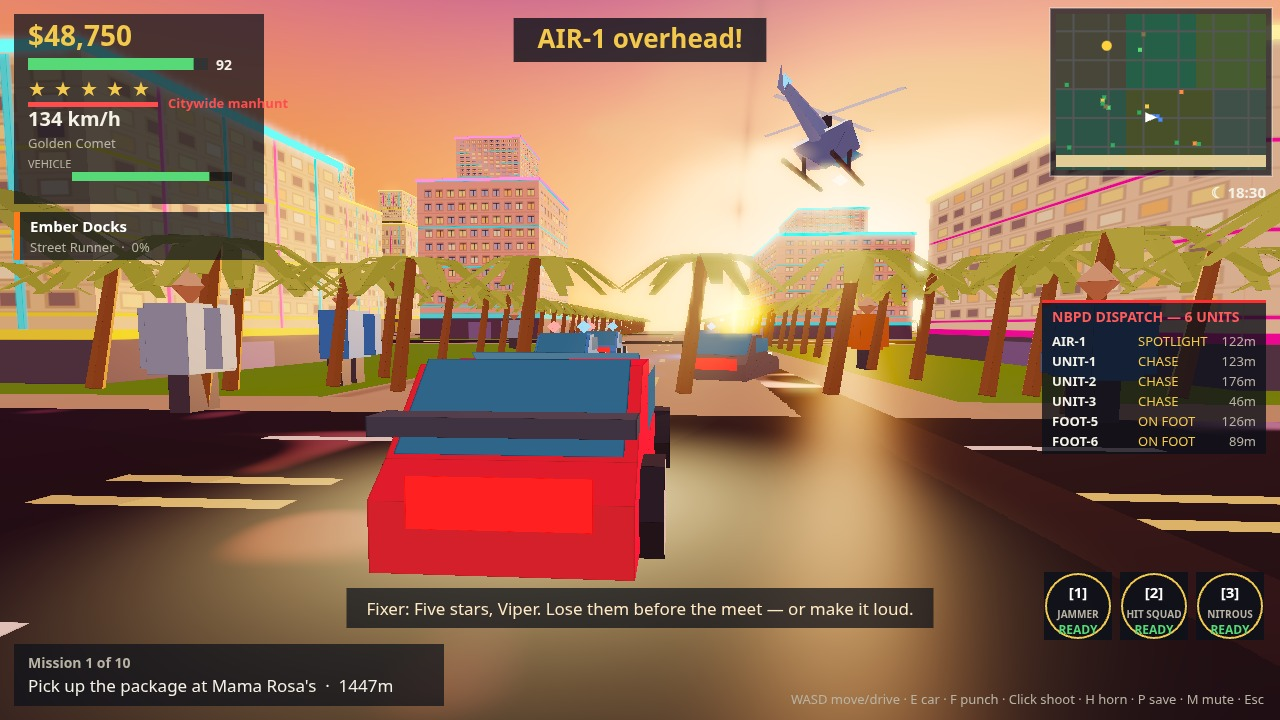
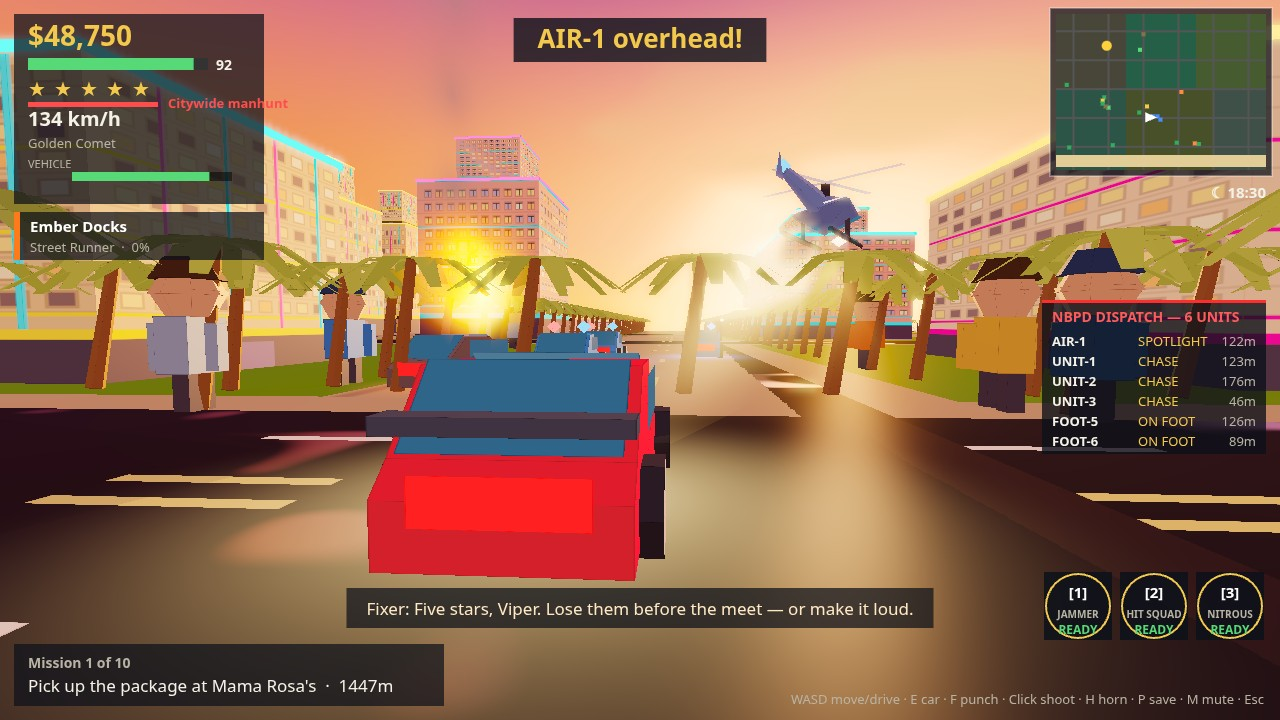
Neon Bay V7 ZEPETO FIX: chibi big-head characters, burning wreck + searchlight cone on cover, tamed sun — game/ 160095/163840 dossier (text 161581, 0 truncated), 4 shots 176/151/178/185 KiB, live Mission #1 OK, E 5/5, missions 10/10, draw 11/frame

diff --git a/game/src/renderer/meshes3d.js b/game/src/renderer/meshes3d.js
@@ -15,7 +15,7 @@ function b(cx,cy,cz,sx,sy,sz,yaw,col,uv,emi,rUv,rEm){const co=Math.cos(yaw),si=M
 function tb(cx,cy,cz,ax,ay,az,r0,r1,len,col,cc,uv,emi,sg){const al=Math.hypot(ax,ay,az)||1;ax/=al;ay/=al;az/=al;const t=Math.abs(ay)<.9?[0,1,0]:[1,0,0];let ux=ay*t[2]-az*t[1],uy=az*t[0]-ax*t[2],uz=ax*t[1]-ay*t[0];const ul=Math.hypot(ux,uy,uz)||1;ux/=ul;uy/=ul;uz/=ul;const vx=ay*uz-az*uy,vy=az*ux-ax*uz,vz=ax*uy-ay*ux,c0=[cx-ax*len/2,cy-ay*len/2,cz-az*len/2],c1=[cx+ax*len/2,cy+ay*len/2,cz+az*len/2],c2=cc||col;sg=sg||6;for(let i=0;i<sg;i++){const a0=i/sg*Math.PI*2,a1=(i+1)/sg*Math.PI*2,d0=[ux*Math.cos(a0)+vx*Math.sin(a0),uy*Math.cos(a0)+vy*Math.sin(a0),uz*Math.cos(a0)+vz*Math.sin(a0)],d1=[ux*Math.cos(a1)+vx*Math.sin(a1),uy*Math.cos(a1)+vy*Math.sin(a1),uz*Math.cos(a1)+vz*Math.sin(a1)],p00=[c0[0]+d0[0]*r0,c0[1]+d0[1]*r0,c0[2]+d0[2]*r0],p01=[c0[0]+d1[0]*r0,c0[1]+d1[1]*r0,c0[2]+d1[2]*r0],p10=[c1[0]+d0[0]*r1,c1[1]+d0[1]*r1,c1[2]+d0[2]*r1],p11=[c1[0]+d1[0]*r1,c1[1]+d1[1]*r1,c1[2]+d1[2]*r1];q(p00,p10,p11,p01,(d0[0]+d1[0])/2,(d0[1]+d1[1])/2,(d0[2]+d1[2])/2,col,uv,emi);tr(c0,[c0[0]+d1[0]*r0,c0[1]+d1[1]*r0,c0[2]+d1[2]*r0],p00,-ax,-ay,-az,c2,uv,emi);tr(c1,p10,[c1[0]+d1[0]*r1,c1[1]+d1[1]*r1,c1[2]+d1[2]*r1],ax,ay,az,c2,uv,emi);}}
 function ba(cx,cy,cz,rx,ry,rz,col,emi){const T=[cx,cy+ry,cz],B=[cx,cy-ry,cz],E=[[cx+rx,cy,cz],[cx,cy,cz+rz],[cx-rx,cy,cz],[cx,cy,cz-rz]];for(let i=0;i<4;i++){const a=E[i],b2=E[(i+1)%4],mx=(a[0]+b2[0])/2-cx,mz=(a[2]+b2[2])/2-cz;tr(T,a,b2,mx/rx,1,mz/rz,col,U,emi);tr(B,b2,a,mx/rx,-1,mz/rz,col,U,emi);}}
 function pr(pts,hw,cx,cy,cz,yaw,col,uv,emi){const co=Math.cos(yaw),si=Math.sin(yaw),X=(lx,lz)=>[cx+lx*co+lz*si,cz-lx*si+lz*co];for(let i=0;i<pts.length;i++){const p0=pts[i],p1=pts[(i+1)%pts.length],dx=p1[0]-p0[0],dy=p1[1]-p0[1],ln=Math.hypot(dx,dy)||1,nn=[dy/ln,-dx/ln],w0=X(p0[0],-hw),w1=X(p1[0],-hw),w2=X(p1[0],hw),w3=X(p0[0],hw);q([w0[0],cy+p0[1],w0[1]],[w1[0],cy+p1[1],w1[1]],[w2[0],cy+p1[1],w2[1]],[w3[0],cy+p0[1],w3[1]],nn[0]*co,nn[1],-nn[0]*si,col,uv,emi);}let gx=0,gy=0;for(const p of pts){gx+=p[0];gy+=p[1];}gx/=pts.length;gy/=pts.length;const g0=X(gx,hw),g1=X(gx,-hw);for(let i=0;i<pts.length;i++){const p0=pts[i],p1=pts[(i+1)%pts.length],a0=X(p0[0],hw),a1=X(p1[0],hw),b0=X(p0[0],-hw),b1=X(p1[0],-hw);tr([g0[0],cy+gy,g0[1]],[a0[0],cy+p0[1],a0[1]],[a1[0],cy+p1[1],a1[1]],si,0,co,col,uv,emi);tr([g1[0],cy+gy,g1[1]],[b1[0],cy+p1[1],b1[1]],[b0[0],cy+p0[1],b0[1]],-si,0,-co,col,uv,emi);}}
-return{data,get count(){return n;},reset(){n=0;},slice(){return data.subarray(0,n*VICE_VERT_STRIDE);},q,tr,gq,gt,b,tb,ba,pr};}
+return{data,reset(){n=0;},slice(){return data.subarray(0,n*VICE_VERT_STRIDE);},q,tr,gq,gt,b,tb,ba,pr};}
 export function viceBuildingHeight(b){const h=(((b.x*7+b.y*13)%100)+100)%100/100,cx=b.x+b.w/2,cy=b.y+b.h/2;return(60+h*140)*(cx>1200&&cx<3000&&cy>600&&cy<2000?1.5:1)*(cy>2300?.6:1);}
 const NT=[[1,.18,.47],[0,.9,1],[1,.82,.24],[1,.48,.18]];
 export function buildStatic(city){
@@ -74,16 +74,18 @@ const spec=CAR_KINDS[car.kind]||CAR_KINDS.sedan,col=X(car.color||spec.color),L=s
 carBody(m,car.x,car.y,car.angle,L,W,col,car.kind,true);
 if(car.driver==='police'){const fl=Math.floor(state.time*3)%2===0,co=Math.cos(car.angle),si=Math.sin(car.angle);m.ba(car.x-co*4-si*6,19.5,car.y-si*4+co*6,4,2.5,3,fl?[1,.2,.2]:[.2,.4,1],1);m.ba(car.x-co*4+si*6,19.5,car.y-si*4-co*6,4,2.5,3,fl?[.2,.4,1]:[1,.2,.2],1);}
 if(car.kind==='taxi')m.b(car.x,22,car.y,14,4,8,-car.angle,[1,.82,.24],U,.8);}
-function person(x,y,shirt,angle,phase){
-const yaw=-angle,fx=Math.cos(angle),fz=Math.sin(angle),sw=Math.sin(state.time*6+(phase||0))*4,pn=[.15,.15,.18];
-m.b(x+fx*sw,4.5,y+fz*sw,5,9,5,yaw,pn,U,0);
-m.b(x-fx*sw,4.5,y-fz*sw,5,9,5,yaw,pn,U,0);
-m.b(x,17,y,13,16,10,yaw,shirt,U,0);
-m.b(x+fx*-sw*.7-fz*8,17,y+fz*-sw*.7+fx*8,4,14,4,yaw,shirt,U,0);
-m.b(x+fx*-sw*.7+fz*8,17,y+fz*-sw*.7-fx*8,4,14,4,yaw,shirt,U,0);
-m.ba(x,29,y,4.5,4.5,4.5,skin,0);}
+function person(x,y,shirt,angle,phase,hr){
+const yaw=-angle,fx=Math.cos(angle),fz=Math.sin(angle),sw=Math.sin(state.time*6+(phase||0))*4,pn=[.15,.15,.18],hc=hr||X('#241a12');
+m.b(x+fx*sw,4.5,y+fz*sw,4,9,4,yaw,pn,U,0);
+m.b(x-fx*sw,4.5,y-fz*sw,4,9,4,yaw,pn,U,0);
+m.b(x,15.5,y,11,13,8,yaw,shirt,U,0);
+m.b(x+fx*-sw*.7-fz*7,15,y+fz*-sw*.7+fx*7,3,11,3,yaw,shirt,U,0);
+m.b(x+fx*-sw*.7+fz*7,15,y+fz*-sw*.7-fx*7,3,11,3,yaw,shirt,U,0);
+m.tb(x,25,y,0,1,0,4.5,7.5,6,skin,null,U,0,8);
+m.tb(x,30,y,0,1,0,7.5,4.5,6,skin,null,U,0,8);
+m.tb(x,33,y,0,1,0,7.4,4.5,5,hc,null,U,0,8);}
 for(const ped of state.peds){if(ped.down>0)continue;const dx=ped.x-px,dz=ped.y-pz;if(dx*dx+dz*dz>1200*1200)continue;person(ped.x,ped.y,X(ped.shirt||'#e8e2d4'),ped.angle||0,ped.x*.7);}
-for(const cop of state.cops)person(cop.x,cop.y,X('#2f6fd0'),cop.angle||0,cop.x*.7);
+for(const cop of state.cops)person(cop.x,cop.y,X('#2f6fd0'),cop.angle||0,cop.x*.7,X('#16233f'));
 for(const rival of state.rivals)person(rival.x,rival.y,X('#a83232'),rival.angle||0,rival.x*.7);
 const p=state.player;
 if(p.onFoot)person(p.x,p.y,X('#ff5a3c'),p.angle,0);
@@ -125,8 +127,8 @@ let dn=0;
 for(const pt of state.particles){if(dn>=30)break;const dx=pt.x-p.x,dz=pt.y-p.y;if(dx*dx+dz*dz>1200*1200)continue;const s=pt.size||3;m.gq(pt.x-s,pt.y-s,pt.x+s,pt.y+s,1,X(pt.color||'#ffd23d'),.6);dn++;}
 if(state.objective)vb(state.objective.x,state.objective.y,150,5,[1,.82,.24],.3);
 const air=state.air;
-if(air&&air.heli){const h=air.heli;bm(h.x,h.z-2,h.y,h.spotX,1,h.spotY,8,48,[1,.88,.5],.4);m.gq(h.spotX-55,h.spotY-55,h.spotX+55,h.spotY+55,.3,[1,.9,.6],.55);}
-for(const w of state.wrecks||[]){const fl=1+Math.sin(state.time*9+w.x)*.15;for(let k=0;k<3;k++){const fx=w.x+(k-1)*8,fw=(18-k*2)*fl,fh=(34-k*4)*fl,fc=k===0?[1,.4,.05]:k===1?[1,.62,.12]:[1,.85,.3];m.q([fx-fw,10,w.y],[fx+fw,10,w.y],[fx+fw,10+fh,w.y],[fx-fw,10+fh,w.y],0,0,1,fc,U,.9);m.q([fx,10,w.y-fw],[fx,10,w.y+fw],[fx,10+fh,w.y+fw],[fx,10+fh,w.y-fw],1,0,0,fc,U,.9);}}
+if(air&&air.heli){const h=air.heli;bm(h.x,h.z-2,h.y,h.spotX,1,h.spotY,10,45,[1,.8,.4],.5);bm(h.x,h.z-2,h.y,h.spotX,1,h.spotY,5,24,[1,.9,.6],.6);m.gq(h.spotX-60,h.spotY-60,h.spotX+60,h.spotY+60,.3,[1,.9,.6],.5);}
+for(const w of state.wrecks||[]){const fl=1+Math.sin(state.time*9+w.x)*.15;m.gq(w.x-46,w.y-46,w.x+46,w.y+46,.35,[1,.32,.06],.5);for(let k=0;k<3;k++){const fx=w.x+(k-1)*9,fw=(26-k*3)*fl,fh=(48-k*6)*fl,fc=k===0?[1,.28,.02]:k===1?[1,.52,.06]:[1,.82,.28];m.q([fx-fw,10,w.y],[fx+fw,10,w.y],[fx+fw,10+fh,w.y],[fx-fw,10+fh,w.y],0,0,1,fc,U,.95);m.q([fx,10,w.y-fw],[fx,10,w.y+fw],[fx,10+fh,w.y+fw],[fx,10+fh,w.y-fw],1,0,0,fc,U,.95);}}
 return m.slice();}
 export function buildSmk(state,m){
 m.reset();

diff --git a/game/src/shots.js b/game/src/shots.js
@@ -48,10 +48,10 @@ export function stageShot(name, g, o) {
   rivals.forEach((c, i) => { c.x = px + (i % 2 === 0 ? -32 : 32); c.y = py + 90 + i * 80; c.angle = H; c.speed = 330; c.raceGate = 0; c.raceLap = 1; c.color = ['#ffd23d', '#2f6fd0', '#ff7a2d'][i % 3]; });
   const ahead = [[1475, 420, 'sedan', H], [1525, 500, 'taxi', -H], [1475, 580, 'van', H], [1525, 660, 'pickup', -H], [1475, 740, 'sedan', H]];
   for (const [x, y, k, a] of ahead) g.spawnParkedCar(k, px + (x - 1500), py + (y - 300), a);
-  ped(g, px - 92, py + 150, '#7fb3d5');
-  ped(g, px + 92, py + 260, '#d4693c');
-  ped(g, px - 92, py + 380, '#f2c94c');
-  ped(g, px + 92, py + 480, '#7fb3d5');
+  ped(g, px - 12, py + 80, '#7fb3d5');
+  ped(g, px + 18, py + 150, '#d4693c');
+  ped(g, px - 78, py + 260, '#f2c94c');
+  ped(g, px + 78, py + 340, '#7fb3d5');
   s.nearMissStreak = 3; s.nearMissStreakT = 4;
   s.radioToast = { name: 'VICE FM 104.5', until: performance.now() + 60000 };
   s.banner = 'STREET RACE — 3 laps!';
@@ -75,7 +75,7 @@ export function stageShot(name, g, o) {
   s.cops = [];
   for (const [x, y] of [[810, 380], [810, 440], [795, 320], [940, 380]]) { const c = g.spawnFootCop(); c.x = x; c.y = y; }
   const h = s.air.heli;
-  if (h) { h.x = 960; h.y = 360; h.z = 55; h.spotX = 875; h.spotY = 250; h.angle = -0.4; }
+  if (h) { h.x = 1030; h.y = 420; h.z = 80; h.spotX = 875; h.spotY = 250; h.angle = -0.4; }
   wreck(s, 980, 230, 0.6);
   for (const [x, y, col, sz] of [[980, 230, '#ff7a2d', 10], [995, 220, '#ffd23d', 8], [970, 245, '#ff3b1f', 9]]) s.particles.push({ x, y, vx: 0, vy: -20, life: 0.5, maxLife: 0.5, color: col, size: sz });
   s.upgrades.glow = 1;
@@ -128,12 +128,13 @@ export function stageShot(name, g, o) {
  s.cops = [];
  for (const [x, y] of [[1560, 1900], [1620, 1700]]) { const c = g.spawnFootCop(); c.x = x; c.y = y; }
  const h = s.air.heli;
- if (h) { h.x = 1700; h.y = 1880; h.z = 100; h.spotX = 1500; h.spotY = 1800; h.angle = 0.5; }
- wreck(s, 1650, 1835, 0.6);
+ if (h) { h.x = 1700; h.y = 1880; h.z = 70; h.spotX = 1500; h.spotY = 1800; h.angle = 0.5; }
+ wreck(s, 1620, 1745, 0.6);
  s.upgrades.glow = 1;
  s.dialogue = ['Fixer: Five stars, Viper. Lose them before the meet — or make it loud.'];
  ped(g, 1560, 1700, '#7fb3d5');
  ped(g, 1700, 1900, '#d4693c');
+ ped(g, 1575, 1890, '#f2c94c');
  sc(g); st();
  return { screen: PL };
 }

diff --git a/game/src/renderer/webgl3d.js b/game/src/renderer/webgl3d.js
@@ -28,7 +28,7 @@ const cU=U(cityP,['uVP','uSP','uCam','uSD','uSunCol','uAmb','uFC','uFogDen','uSo
 const kU=U(skyP,['uVP','uSD','uTime','uCam']),wU=U(waterP,['uVP','uTime','uSD','uCam','uFC']),pU=U(postP,['uScene','uBloom','uMode','uTexel']),dU=U(depP,['uVP']);
 const uM=(l,v)=>gl.uniformMatrix4fv(l,false,v),u3=(l,v)=>gl.uniform3fv(l,v),u1=(l,v)=>gl.uniform1f(l,v),uI=(l,v)=>gl.uniform1i(l,v);
 const atlas=AT(gl);
-const dynM=viceCreateMesh(20000),addM=viceCreateMesh(6000),smkM=viceCreateMesh(4000);
+const dynM=viceCreateMesh(32000),addM=viceCreateMesh(6000),smkM=viceCreateMesh(4000);
 let sB=null,sN=0,kB=null,wB=null,dB=null,tB=null,vW=0,vH=0,dp=1,md=0,vs=true,fb=null;
 const se=[0,0,0];let ei=false;
 function tex(w,h,fmt,type){const t=gl.createTexture();gl.bindTexture(gl.TEXTURE_2D,t);gl.texImage2D(gl.TEXTURE_2D,0,fmt,w,h,0,fmt===gl.DEPTH_COMPONENT24?gl.DEPTH_COMPONENT:gl.RGBA,type,null);gl.texParameteri(gl.TEXTURE_2D,gl.TEXTURE_MIN_FILTER,gl.LINEAR);gl.texParameteri(gl.TEXTURE_2D,gl.TEXTURE_MAG_FILTER,gl.LINEAR);gl.texParameteri(gl.TEXTURE_2D,gl.TEXTURE_WRAP_S,gl.CLAMP_TO_EDGE);gl.texParameteri(gl.TEXTURE_2D,gl.TEXTURE_WRAP_T,gl.CLAMP_TO_EDGE);return t;}
